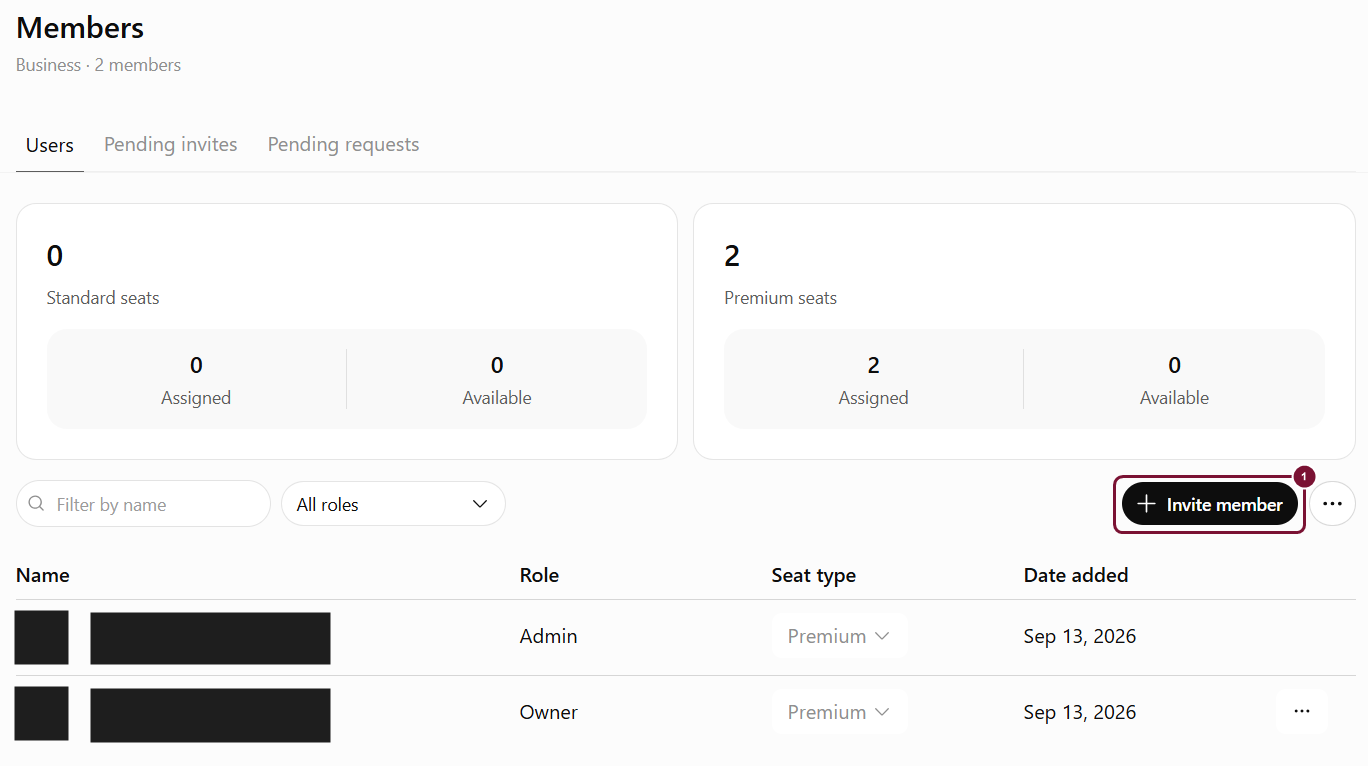
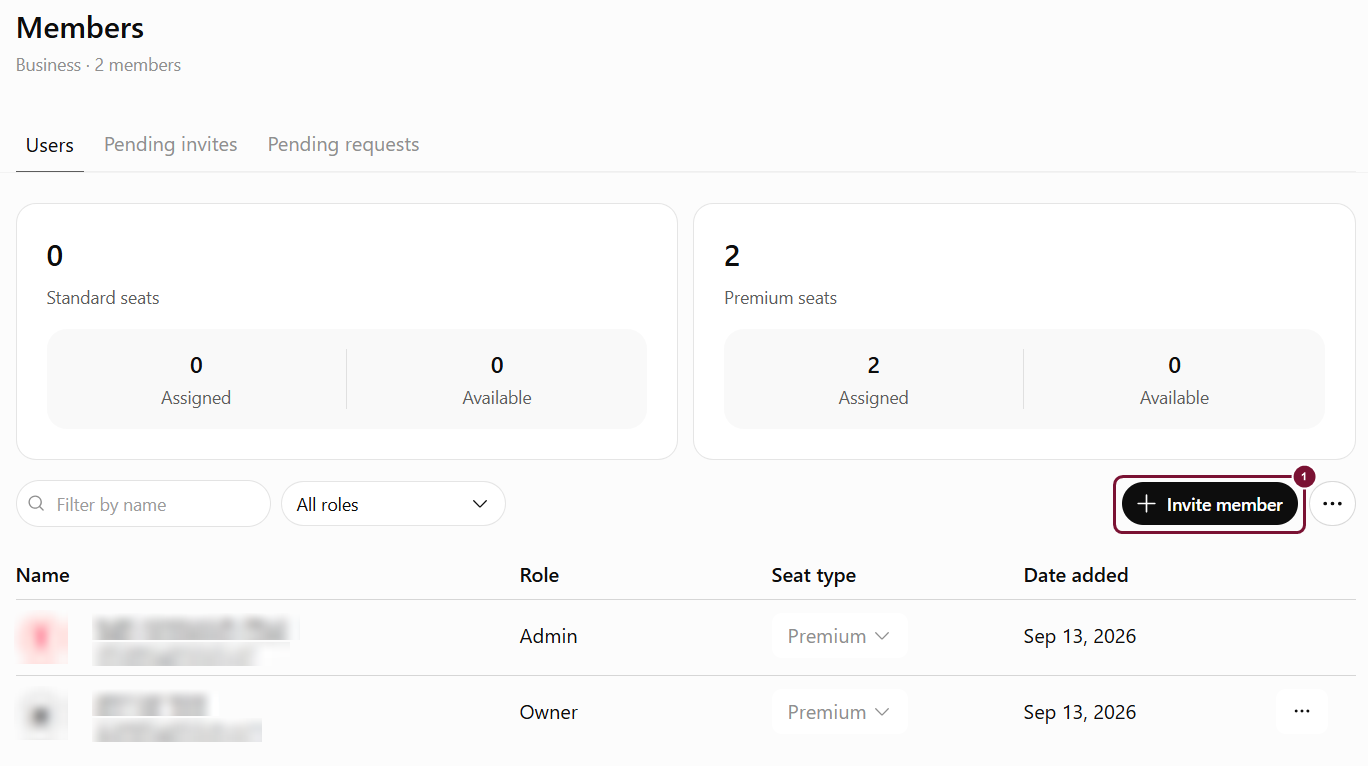
צילומים: טשטוש במקום השחרה, עם הערת פרטיות מתחת לצילום; הסרת הסתרה מטקסט שאינו רגיש

Changed region(s): [[0.0, 0.7807, 0.2456, 0.9909]]

diff --git a/guide-1.html b/guide-1.html
@@ -280,12 +280,12 @@ footer{font-size:.85rem;padding:30px 16px 20px;border-top:1px solid #dfe7e4}
 <summary>איך מורידים את קובץ מפת הדרכים ש-<bdi dir="ltr">ChatGPT</bdi> מפיק?</summary>
 <p>כשהקובץ מופיע בשיחה, לוחצים על כפתור ההגדלה בפינת התצוגה. במסך שנפתח לוחצים על כפתור ההורדה בפינה הימנית העליונה, והקובץ יורד כקובץ <bdi dir="ltr">HTML</bdi> לתיקיית ההורדות. אפשר לפתוח אותו בדפדפן ולשמור אותו בתיק המשרד.</p>
         <figure>
-          <div class="shot-frame"><img class="shot-real" src="img/cg1-12-roadmap-expand.png?v=20260915a" alt="קובץ מפת הדרכים בתוך השיחה, עם כפתור ההגדלה"></div>
+          <div class="shot-frame"><img class="shot-real" src="img/cg1-12-roadmap-expand.png?v=20260915b" alt="קובץ מפת הדרכים בתוך השיחה, עם כפתור ההגדלה"></div>
           <figcaption>הקובץ בתוך השיחה</figcaption>
         </figure>
         <ul class="shot-legend"><li><b>1 </b><span>כפתור ההגדלה: פותח את הקובץ בתצוגה מלאה.</span></li></ul>
         <figure>
-          <div class="shot-frame"><img class="shot-real" src="img/cg1-13-roadmap-download.png?v=20260915a" alt="מפת הדרכים בתצוגה מלאה, עם כפתור ההורדה"></div>
+          <div class="shot-frame"><img class="shot-real" src="img/cg1-13-roadmap-download.png?v=20260915b" alt="מפת הדרכים בתצוגה מלאה, עם כפתור ההורדה"></div>
           <figcaption>הקובץ בתצוגה מלאה</figcaption>
         </figure>
         <ul class="shot-legend"><li><b>1 </b><span>כפתור ההורדה: מוריד את הקובץ כקובץ <bdi dir="ltr">HTML</bdi> לתיקיית ההורדות.</span></li></ul>
@@ -396,7 +396,7 @@ Owner צריך להיות בעל המשרד, שותף מוסמך או חשבון
 
 Settings &gt; Data controls &gt; Export data
 
-(צילום מסך במדריך: לחצו על Settings בתפריט החשבון.)
+(צילום מסך במדריך: לחצו על Settings בתפריט החשבון. (שם המשתמש טושטש, לשמירה על פרטיות))
 
 סימון 1: Settings: פותח את חלון ההגדרות של החשבון.
 
@@ -490,7 +490,7 @@ OpenAI גם מזהירה שבמקרים נדירים, שיחות ארוכות א
 
 את ההנחיות האישיות הקבועות רואים תחת Personalization. הן נכללות בקובץ ה-Export, אבל כדאי גם להעתיק אותן לקובץ נפרד, כדי להדביק אותן מחדש ב-Business.
 
-(צילום מסך במדריך: לחצו על Personalization בתפריט החשבון.)
+(צילום מסך במדריך: לחצו על Personalization בתפריט החשבון. (שם המשתמש טושטש, לשמירה על פרטיות))
 
 סימון 1: Personalization: פותח את חלון ההתאמה האישית.
 
@@ -502,7 +502,7 @@ OpenAI גם מזהירה שבמקרים נדירים, שיחות ארוכות א
 
 קבצים שהעליתם לפרויקט אפשר להוריד אחד אחד מתוך רשימת המקורות (Sources) של הפרויקט. לפני המעבר, הורידו את הקבצים החשובים ושמרו אותם בתיקיית הגיבוי.
 
-(צילום מסך במדריך: פתיחת פרויקט חדש)
+(צילום מסך במדריך: פתיחת פרויקט חדש (שמות השיחות טושטשו, לשמירה על פרטיות))
 
 סימון 1: הסימן + ליד Projects: פותח פרויקט חדש.
 
@@ -632,7 +632,7 @@ Workspace settings &gt; Members
 
 בעמודה Role רואים את התפקיד של כל אחד מחברי הארגון, וכך בודקים מי מוגדר כ-Owner.
 
-(צילום מסך במדריך: Workspace settings &gt; Members (השמות וכתובות הדוא"ל הושחרו))
+(צילום מסך במדריך: Workspace settings &gt; Members (השמות וכתובות הדוא"ל טושטשו, לשמירה על פרטיות))
 
 סימון 1: עמודת Role: התפקיד של כל משתמש. Owner הוא בעל החשבון, Admin הוא מנהל.
 
@@ -686,7 +686,7 @@ Workspace settings &gt; Members &gt; Invite member
 
 הזינו כתובות דוא"ל מלאות. Owner בוחר לכל הזמנה תפקיד וסוג מושב, ואילו Admins וחברים מזמינים Member בסוג המושב שנקבע כברירת מחדל. בדקו את סוג המושב ושלחו את ההזמנות.
 
-(צילום מסך במדריך: Workspace settings &gt; Members)
+(צילום מסך במדריך: Workspace settings &gt; Members (השמות וכתובות הדוא"ל טושטשו, לשמירה על פרטיות))
 
 סימון 1: Invite member: פותח את חלון ההזמנה.
 
@@ -730,7 +730,7 @@ Workspace settings &gt; Members &gt; Invite member
 סימון 1: השם בפינה השמאלית התחתונה: הסביבה שבה אתם עובדים עכשיו, ומתחתיו סוג המנוי (Business).
 סימון 2: השורה העליונה עם החץ: פותחת את רשימת הסביבות, ומשם עוברים ביניהן.
 
-(צילום מסך במדריך: רשימת הסביבות (בחשבון שבצילום יש סביבה אחת בלבד, וכתובת הדוא"ל הושחרה))
+(צילום מסך במדריך: רשימת הסביבות (בחשבון שבצילום יש סביבה אחת בלבד, וכתובת הדוא"ל טושטשה, לשמירה על פרטיות))
 
 סימון 1: הסביבה הפעילה מסומנת בסימן ✓ בצד ימין.
 
@@ -1338,33 +1338,33 @@ Legal Mind · כלי עבודה מעשי · פירוט מלא בכל סעיף נ
         <p><code dir="ltr">Settings &gt; Data controls &gt; Export data</code></p>
         
         <figure>
-          <div class="shot-frame"><img class="shot-real" src="img/cg1-01-menu-settings.png?v=20260915a" alt="תפריט החשבון, השורה Settings"></div>
-          <figcaption>לחצו על <bdi dir="ltr">Settings</bdi> בתפריט החשבון.</figcaption>
+          <div class="shot-frame"><img class="shot-real" src="img/cg1-01-menu-settings.png?v=20260915b" alt="תפריט החשבון, השורה Settings"></div>
+          <figcaption>לחצו על <bdi dir="ltr">Settings</bdi> בתפריט החשבון. (שם המשתמש טושטש, לשמירה על פרטיות)</figcaption>
         </figure>
         <ul class="shot-legend"><li><b>1 </b><span><bdi dir="ltr">Settings</bdi>: פותח את חלון ההגדרות של החשבון.</span></li></ul>
         
         <figure>
-          <div class="shot-frame"><img class="shot-real" src="img/cg1-02-data-controls-export.png?v=20260915a" alt="Settings > Data controls, הכפתור Export"></div>
+          <div class="shot-frame"><img class="shot-real" src="img/cg1-02-data-controls-export.png?v=20260915b" alt="Settings > Data controls, הכפתור Export"></div>
           <figcaption><bdi dir="ltr">Settings &gt; Data controls</bdi></figcaption>
         </figure>
         <ul class="shot-legend"><li><b>1 </b><span>לשונית <bdi dir="ltr">Data controls</bdi>.</span></li><li><b>2 </b><span><bdi dir="ltr">Export</bdi>: לחיצה עליו מבקשת ייצוא של נתוני החשבון.</span></li></ul>
         <p>לחצו על <bdi dir="ltr">Export</bdi>, ובמסך האישור לחצו על <bdi dir="ltr">Confirm export</bdi> כדי לבקש ייצוא של נתוני החשבון.</p>
         
         <figure>
-          <div class="shot-frame"><img class="shot-real" src="img/cg1-03-confirm-export.png?v=20260915a" alt="חלון האישור Request data export"></div>
+          <div class="shot-frame"><img class="shot-real" src="img/cg1-03-confirm-export.png?v=20260915b" alt="חלון האישור Request data export"></div>
           <figcaption><bdi dir="ltr">Request data export</bdi></figcaption>
         </figure>
         <ul class="shot-legend"><li><b>1 </b><span>רשימת הפרטים: מה ייכלל בייצוא, לאן יישלח ולכמה זמן הקישור תקף.</span></li><li><b>2 </b><span><bdi dir="ltr">Confirm export</bdi>: שולח את הבקשה. הלחיצה לא מוחקת ולא משנה דבר בחשבון.</span></li></ul>
         
         <figure>
-          <div class="shot-frame"><img class="shot-real" src="img/cg1-04-export-requested.png?v=20260915a" alt="הודעה ירוקה: הבקשה התקבלה"></div>
+          <div class="shot-frame"><img class="shot-real" src="img/cg1-04-export-requested.png?v=20260915b" alt="הודעה ירוקה: הבקשה התקבלה"></div>
           <figcaption>הבקשה התקבלה</figcaption>
         </figure>
         <ul class="shot-legend"><li><b>1 </b><span>ההודעה הירוקה: הבקשה נקלטה, והפרטים יישלחו במייל. הקובץ עצמו עוד לא נשלח.</span></li></ul>
         <p>כשהייצוא מוכן מתקבלת הודעה בדוא"ל (או ב-<bdi dir="ltr">SMS</bdi> בחשבון שרשום רק עם מספר טלפון). ההודעה יכולה להגיע עד 7 ימים אחרי הבקשה. הקישור תקף ל-24 שעות מרגע קבלתו, ודורש שהמשתמש יהיה מחובר לאותו חשבון.</p>
         
         <figure>
-          <div class="shot-frame"><img class="shot-real" src="img/cg1-06-export-started-email.png?v=20260915a" alt="מייל: הכנת הייצוא התחילה"></div>
+          <div class="shot-frame"><img class="shot-real" src="img/cg1-06-export-started-email.png?v=20260915b" alt="מייל: הכנת הייצוא התחילה"></div>
           <figcaption>המייל הראשון מ-<bdi dir="ltr">OpenAI</bdi></figcaption>
         </figure>
         <ul class="shot-legend"><li><b>1 </b><span>כותרת המייל: הכנת הייצוא התחילה.</span></li><li><b>2 </b><span>ההכנה עשויה להימשך כמה ימים. מייל נוסף יישלח כשהקובץ יהיה מוכן להורדה.</span></li></ul>
@@ -1385,7 +1385,7 @@ Legal Mind · כלי עבודה מעשי · פירוט מלא בכל סעיף נ
         <p>כשהייצוא מוכן מגיע מייל שני מ-<bdi dir="ltr">OpenAI</bdi>. לחצו בו על <bdi dir="ltr">Download data export</bdi>, כשאתם מחוברים ל-<bdi dir="ltr">ChatGPT</bdi> באותו חשבון שביקש את הייצוא.</p>
         
         <figure>
-          <div class="shot-frame"><img class="shot-real" src="img/cg1-08-export-ready-email.png?v=20260915a" alt="מייל: קובץ הייצוא מוכן, עם הכפתור Download data export"></div>
+          <div class="shot-frame"><img class="shot-real" src="img/cg1-08-export-ready-email.png?v=20260915b" alt="מייל: קובץ הייצוא מוכן, עם הכפתור Download data export"></div>
           <figcaption>המייל השני מ-<bdi dir="ltr">OpenAI</bdi></figcaption>
         </figure>
         <ul class="shot-legend"><li><b>1 </b><span>כותרת המייל: קובץ הייצוא מוכן.</span></li><li><b>2 </b><span><bdi dir="ltr">Download data export</bdi>: מוריד את קובץ הגיבוי. הקישור תקף ל-24 שעות.</span></li></ul>
@@ -1421,13 +1421,13 @@ Legal Mind · כלי עבודה מעשי · פירוט מלא בכל סעיף נ
         <p>את ההנחיות האישיות הקבועות רואים תחת <bdi dir="ltr">Personalization</bdi>. הן נכללות בקובץ ה-<bdi dir="ltr">Export</bdi>, אבל כדאי גם להעתיק אותן לקובץ נפרד, כדי להדביק אותן מחדש ב-<bdi dir="ltr">Business</bdi>.</p>
         
         <figure>
-          <div class="shot-frame"><img class="shot-real" src="img/cg1-05-menu-personalization.png?v=20260915a" alt="תפריט החשבון, השורה Personalization"></div>
-          <figcaption>לחצו על <bdi dir="ltr">Personalization</bdi> בתפריט החשבון.</figcaption>
+          <div class="shot-frame"><img class="shot-real" src="img/cg1-05-menu-personalization.png?v=20260915b" alt="תפריט החשבון, השורה Personalization"></div>
+          <figcaption>לחצו על <bdi dir="ltr">Personalization</bdi> בתפריט החשבון. (שם המשתמש טושטש, לשמירה על פרטיות)</figcaption>
         </figure>
         <ul class="shot-legend"><li><b>1 </b><span><bdi dir="ltr">Personalization</bdi>: פותח את חלון ההתאמה האישית.</span></li></ul>
         
         <figure>
-          <div class="shot-frame"><img class="shot-real" src="img/cg1-07-custom-instructions.png?v=20260915a" alt="תיבת Custom instructions" data-full-src="img/cg1-07-full-personalization.png?v=20260915a"></div>
+          <div class="shot-frame"><img class="shot-real" src="img/cg1-07-custom-instructions.png?v=20260915b" alt="תיבת Custom instructions" data-full-src="img/cg1-07-full-personalization.png?v=20260915b"></div>
           <figcaption><bdi dir="ltr">Personalization &gt; Custom instructions</bdi></figcaption>
         </figure>
         <ul class="shot-legend"><li><b>1 </b><span><bdi dir="ltr">Custom instructions</bdi>: ההנחיות הקבועות שלכם. מעתיקים את כל הטקסט ושומרים בקובץ נפרד.</span></li></ul>
@@ -1435,25 +1435,25 @@ Legal Mind · כלי עבודה מעשי · פירוט מלא בכל סעיף נ
         <p>קבצים שהעליתם לפרויקט אפשר להוריד אחד אחד מתוך רשימת המקורות <bdi dir="ltr">(Sources)</bdi> של הפרויקט. לפני המעבר, הורידו את הקבצים החשובים ושמרו אותם בתיקיית הגיבוי.</p>
         
         <figure>
-          <div class="shot-frame"><img class="shot-real" src="img/cg1-08-projects-plus.png?v=20260915a" alt="הסרגל הצדדי, הסימן + ליד Projects"></div>
-          <figcaption>פתיחת פרויקט חדש</figcaption>
+          <div class="shot-frame"><img class="shot-real" src="img/cg1-08-projects-plus.png?v=20260915b" alt="הסרגל הצדדי, הסימן + ליד Projects"></div>
+          <figcaption>פתיחת פרויקט חדש (שמות השיחות טושטשו, לשמירה על פרטיות)</figcaption>
         </figure>
         <ul class="shot-legend"><li><b>1 </b><span>הסימן <bdi dir="ltr">+</bdi> ליד <bdi dir="ltr">Projects</bdi>: פותח פרויקט חדש.</span></li></ul>
         
         <figure>
-          <div class="shot-frame"><img class="shot-real" src="img/cg1-09-sources-add.png?v=20260915a" alt="פרויקט, הלשונית Sources והכפתור Add sources"></div>
+          <div class="shot-frame"><img class="shot-real" src="img/cg1-09-sources-add.png?v=20260915b" alt="פרויקט, הלשונית Sources והכפתור Add sources"></div>
           <figcaption><bdi dir="ltr">Project &gt; Sources</bdi></figcaption>
         </figure>
         <ul class="shot-legend"><li><b>1 </b><span>לשונית <bdi dir="ltr">Sources</bdi> בתוך הפרויקט.</span></li><li><b>2 </b><span><bdi dir="ltr">Add sources</bdi>: הוספת קבצים לפרויקט.</span></li></ul>
         
         <figure>
-          <div class="shot-frame"><img class="shot-real" src="img/cg1-10-upload.png?v=20260915a" alt="חלון Add sources, האפשרות Upload"></div>
+          <div class="shot-frame"><img class="shot-real" src="img/cg1-10-upload.png?v=20260915b" alt="חלון Add sources, האפשרות Upload"></div>
           <figcaption><bdi dir="ltr">Add sources</bdi></figcaption>
         </figure>
         <ul class="shot-legend"><li><b>1 </b><span><bdi dir="ltr">Upload</bdi>: בחירת קובץ מהמחשב והעלאתו לפרויקט.</span></li><li><b>2 </b><span>אזור הגרירה: אפשר גם לגרור קובץ ישירות לכאן.</span></li></ul>
         
         <figure>
-          <div class="shot-frame"><img class="shot-real" src="img/cg1-11-download.png?v=20260915a" alt="קובץ ברשימת Sources, תפריט עם Download"></div>
+          <div class="shot-frame"><img class="shot-real" src="img/cg1-11-download.png?v=20260915b" alt="קובץ ברשימת Sources, תפריט עם Download"></div>
           <figcaption>הורדת קובץ מתוך הפרויקט</figcaption>
         </figure>
         <ul class="shot-legend"><li><b>1 </b><span>שלוש הנקודות ליד שם הקובץ: פותחות את תפריט הקובץ.</span></li><li><b>2 </b><span><bdi dir="ltr">Download</bdi>: הקובץ יורד מיד לתיקיית ההורדות, בלי חלון נוסף.</span></li></ul>

diff --git a/guide-2.html b/guide-2.html
@@ -279,15 +279,15 @@ footer{font-size:.85rem;padding:30px 16px 20px;border-top:1px solid #dfe7e4}
         <p><code dir="ltr">Workspace settings &gt; Members</code></p>
         
         <figure>
-          <div class="shot-frame"><img class="shot-real" src="img/cg3-02-workspace-settings-menu.png?v=20260915a" alt="תפריט החשבון, השורה Workspace settings"></div>
+          <div class="shot-frame"><img class="shot-real" src="img/cg3-02-workspace-settings-menu.png?v=20260915b" alt="תפריט החשבון, השורה Workspace settings"></div>
           <figcaption>לחצו על השם שלכם בפינה השמאלית התחתונה, ובתפריט על <bdi dir="ltr">Workspace settings</bdi>.</figcaption>
         </figure>
         <ul class="shot-legend"><li><b>1 </b><span><bdi dir="ltr">Workspace settings</bdi>: פותח את הגדרות הארגון. הסרגל שבצד מתחלף לסרגל הניהול של הארגון, ושם בוחרים <bdi dir="ltr">Members</bdi>.</span></li></ul>
         <p>בעמודה <bdi dir="ltr">Role</bdi> רואים את התפקיד של כל אחד מחברי הארגון, וכך בודקים מי מוגדר כ-<bdi dir="ltr">Owner</bdi>.</p>
         
         <figure>
-          <div class="shot-frame"><img class="shot-real" src="img/cg2-01-members-role.png?v=20260915a" alt="Workspace settings > Members, עמודת Role"></div>
-          <figcaption><bdi dir="ltr">Workspace settings &gt; Members</bdi> (השמות וכתובות הדוא"ל הושחרו)</figcaption>
+          <div class="shot-frame"><img class="shot-real" src="img/cg2-01-members-role.png?v=20260915b" alt="Workspace settings > Members, עמודת Role"></div>
+          <figcaption><bdi dir="ltr">Workspace settings &gt; Members</bdi> (השמות וכתובות הדוא"ל טושטשו, לשמירה על פרטיות)</figcaption>
         </figure>
         <ul class="shot-legend"><li><b>1 </b><span>עמודת <bdi dir="ltr">Role</bdi>: התפקיד של כל משתמש. <bdi dir="ltr">Owner</bdi> הוא בעל החשבון, <bdi dir="ltr">Admin</bdi> הוא מנהל.</span></li></ul>
         <p>בארגון אחד יכולים להיות כמה <bdi dir="ltr">Owners</bdi>.</p>
@@ -343,13 +343,13 @@ footer{font-size:.85rem;padding:30px 16px 20px;border-top:1px solid #dfe7e4}
         <p>הזינו כתובות דוא"ל מלאות. <bdi dir="ltr">Owner</bdi> בוחר לכל הזמנה תפקיד וסוג מושב, ואילו <bdi dir="ltr">Admins</bdi> וחברים מזמינים <bdi dir="ltr">Member</bdi> בסוג המושב שנקבע כברירת מחדל. בדקו את סוג המושב ושלחו את ההזמנות.</p>
         
         <figure>
-          <div class="shot-frame"><img class="shot-real" src="img/cg2-02-members-invite-button.png?v=20260915a" alt="Members, הכפתור Invite member"></div>
-          <figcaption><bdi dir="ltr">Workspace settings &gt; Members</bdi></figcaption>
+          <div class="shot-frame"><img class="shot-real" src="img/cg2-02-members-invite-button.png?v=20260915b" alt="Members, הכפתור Invite member"></div>
+          <figcaption><bdi dir="ltr">Workspace settings &gt; Members</bdi> (השמות וכתובות הדוא"ל טושטשו, לשמירה על פרטיות)</figcaption>
         </figure>
         <ul class="shot-legend"><li><b>1 </b><span><bdi dir="ltr">Invite member</bdi>: פותח את חלון ההזמנה.</span></li></ul>
         
         <figure>
-          <div class="shot-frame"><img class="shot-real" src="img/cg2-03-invite-dialog-admin.png?v=20260915a" alt="חלון ההזמנה Invite members"></div>
+          <div class="shot-frame"><img class="shot-real" src="img/cg2-03-invite-dialog-admin.png?v=20260915b" alt="חלון ההזמנה Invite members"></div>
           <figcaption>חלון ההזמנה, כפי שהוא נפתח ל-<bdi dir="ltr">Admin</bdi></figcaption>
         </figure>
         <ul class="shot-legend"><li><b>1 </b><span><bdi dir="ltr">Email</bdi>: כתובת הדוא"ל המלאה של המוזמן, בדיוק הכתובת שכבר מחוברת לחשבון שלו.</span></li><li><b>2 </b><span><bdi dir="ltr">Send invites</bdi>: שולח את ההזמנה. לוחצים רק אחרי שבדקתם את הכתובת.</span></li></ul>
@@ -386,14 +386,14 @@ footer{font-size:.85rem;padding:30px 16px 20px;border-top:1px solid #dfe7e4}
         <p>לפני פתיחת מסמך של לקוח, בדקו שאתם בסביבת <bdi dir="ltr">Business</bdi> ולא בסביבת <bdi dir="ltr">Personal</bdi>.</p>
         
         <figure>
-          <div class="shot-frame"><img class="shot-real" src="img/cg2-04-profile-menu-workspace.png?v=20260915a" alt="תפריט הפרופיל: שם הסביבה והשורה שפותחת את רשימת הסביבות"></div>
+          <div class="shot-frame"><img class="shot-real" src="img/cg2-04-profile-menu-workspace.png?v=20260915b" alt="תפריט הפרופיל: שם הסביבה והשורה שפותחת את רשימת הסביבות"></div>
           <figcaption>תפריט הפרופיל</figcaption>
         </figure>
         <ul class="shot-legend"><li><b>1 </b><span>השם בפינה השמאלית התחתונה: הסביבה שבה אתם עובדים עכשיו, ומתחתיו סוג המנוי <bdi dir="ltr">(Business)</bdi>.</span></li><li><b>2 </b><span>השורה העליונה עם החץ: פותחת את רשימת הסביבות, ומשם עוברים ביניהן.</span></li></ul>
         
         <figure>
-          <div class="shot-frame"><img class="shot-real" src="img/cg2-05-workspace-list.png?v=20260915a" alt="רשימת הסביבות, הסביבה הפעילה מסומנת"></div>
-          <figcaption>רשימת הסביבות (בחשבון שבצילום יש סביבה אחת בלבד, וכתובת הדוא"ל הושחרה)</figcaption>
+          <div class="shot-frame"><img class="shot-real" src="img/cg2-05-workspace-list.png?v=20260915b" alt="רשימת הסביבות, הסביבה הפעילה מסומנת"></div>
+          <figcaption>רשימת הסביבות (בחשבון שבצילום יש סביבה אחת בלבד, וכתובת הדוא"ל טושטשה, לשמירה על פרטיות)</figcaption>
         </figure>
         <ul class="shot-legend"><li><b>1 </b><span>הסביבה הפעילה מסומנת בסימן ✓ בצד ימין.</span></li></ul>
         <p>בצעו שיחת ניסיון ללא מידע של לקוח, עברו ל-<bdi dir="ltr">Personal</bdi> וחזרו ל-<bdi dir="ltr">Business</bdi>. כך המשתמש לומד שהסביבות נפרדות.</p>

diff --git a/guide-3.html b/guide-3.html
@@ -274,7 +274,7 @@ footer{font-size:.85rem;padding:30px 16px 20px;border-top:1px solid #dfe7e4}
         <p>בדקו את הקבלה על הרכישה: היא מראה איזו פלטפורמה חייבה אתכם. מנוי שנרכש באתר מופיע ב-<code dir="ltr">Settings &gt; Billing</code>, ובתחתית המסך נמצאת השורה <bdi dir="ltr">Cancel plan</bdi>.</p>
         
         <figure>
-          <div class="shot-frame"><img class="shot-real" src="img/cg3-01-billing-cancel-plan.png?v=20260915a" alt="Settings > Billing, המנוי והשורה Cancel plan"></div>
+          <div class="shot-frame"><img class="shot-real" src="img/cg3-01-billing-cancel-plan.png?v=20260915b" alt="Settings > Billing, המנוי והשורה Cancel plan"></div>
           <figcaption><bdi dir="ltr">Settings &gt; Billing</bdi> (החלק האמצעי של המסך הושמט)</figcaption>
         </figure>
         <ul class="shot-legend"><li><b>1 </b><span>לשונית <bdi dir="ltr">Billing</bdi>.</span></li><li><b>2 </b><span><bdi dir="ltr">ChatGPT Plus</bdi>: המנוי הפעיל ומועד החידוש שלו.</span></li><li><b>3 </b><span><bdi dir="ltr">Cancel plan</bdi>: ביטול המנוי. לא לוחצים בשלב הזה.</span></li></ul>
@@ -424,7 +424,7 @@ footer{font-size:.85rem;padding:30px 16px 20px;border-top:1px solid #dfe7e4}
         <p><code dir="ltr">Personalization &gt; Custom instructions</code></p>
         
         <figure>
-          <div class="shot-frame"><img class="shot-real" src="img/cg3-05-custom-instructions-business.png?v=20260915a" alt="Settings > Personalization בסביבת Business, התיבה Custom instructions"></div>
+          <div class="shot-frame"><img class="shot-real" src="img/cg3-05-custom-instructions-business.png?v=20260915b" alt="Settings > Personalization בסביבת Business, התיבה Custom instructions"></div>
           <figcaption><bdi dir="ltr">Settings &gt; Personalization</bdi> בסביבת <bdi dir="ltr">Business</bdi></figcaption>
         </figure>
         <ul class="shot-legend"><li><b>1 </b><span>לשונית <bdi dir="ltr">Personalization</bdi>.</span></li><li><b>2 </b><span><bdi dir="ltr">Custom instructions</bdi>: כאן מדביקים את ההנחיות ששמרתם. בצילום התיבה עדיין ריקה.</span></li></ul>
@@ -464,19 +464,19 @@ footer{font-size:.85rem;padding:30px 16px 20px;border-top:1px solid #dfe7e4}
         <p>לפי <bdi dir="ltr">OpenAI</bdi>, רק <bdi dir="ltr">Owner</bdi> יכול לראות חשבוניות ולנהל את החיוב. <bdi dir="ltr">Admin</bdi> רואה את פרטי המנוי במסך החיוב, אבל לא את החשבוניות.</p>
         
         <figure>
-          <div class="shot-frame"><img class="shot-real" src="img/cg3-02-workspace-settings-menu.png?v=20260915a" alt="תפריט החשבון, השורה Workspace settings"></div>
+          <div class="shot-frame"><img class="shot-real" src="img/cg3-02-workspace-settings-menu.png?v=20260915b" alt="תפריט החשבון, השורה Workspace settings"></div>
           <figcaption>לחצו על השם שלכם בפינה השמאלית התחתונה, ובתפריט על <bdi dir="ltr">Workspace settings</bdi>.</figcaption>
         </figure>
         <ul class="shot-legend"><li><b>1 </b><span><bdi dir="ltr">Workspace settings</bdi>: פותח את הגדרות הארגון. הסרגל שבצד מתחלף לסרגל הניהול של הארגון.</span></li></ul>
         
         <figure>
-          <div class="shot-frame"><img class="shot-real" src="img/cg3-03-billing-sidebar.png?v=20260915a" alt="סרגל הגדרות הארגון, הלשונית Billing"></div>
+          <div class="shot-frame"><img class="shot-real" src="img/cg3-03-billing-sidebar.png?v=20260915b" alt="סרגל הגדרות הארגון, הלשונית Billing"></div>
           <figcaption>בסרגל שבצד לחצו על <bdi dir="ltr">Billing</bdi>.</figcaption>
         </figure>
         <ul class="shot-legend"><li><b>1 </b><span><bdi dir="ltr">Billing</bdi>: מסך החיוב של הארגון.</span></li></ul>
         
         <figure>
-          <div class="shot-frame"><img class="shot-real" src="img/cg3-04-billing-business.png?v=20260915a" alt="Workspace settings > Billing: המנוי, המושבים וסוג המושב שנקבע כברירת מחדל"></div>
+          <div class="shot-frame"><img class="shot-real" src="img/cg3-04-billing-business.png?v=20260915b" alt="Workspace settings > Billing: המנוי, המושבים וסוג המושב שנקבע כברירת מחדל"></div>
           <figcaption><bdi dir="ltr">Workspace settings &gt; Billing</bdi> (שני צילומים מחוברים של אותו מסך)</figcaption>
         </figure>
         <ul class="shot-legend"><li><b>1 </b><span><bdi dir="ltr">Business Plan</bdi>: סוג המנוי, אופן החיוב (כאן חודשי) ותקופת החיוב הנוכחית.</span></li><li><b>2 </b><span><bdi dir="ltr">Premium seats</bdi>: מספר המושבים שמשלמים עליהם והמחיר. כאן בודקים שאין מושבים מיותרים.</span></li><li><b>3 </b><span><bdi dir="ltr">Default seat type</bdi>: סוג המושב שמקבל מי שמוזמן על ידי <bdi dir="ltr">Admin</bdi> או על ידי חבר רגיל.</span></li></ul>

diff --git a/index.html b/index.html
@@ -323,7 +323,7 @@ figure > figcaption {
   <div class="hero-mesh" aria-hidden="true"></div>
   <div class="hero-inner">
     <span class="hero-eyebrow"><span class="dot"></span>מרכז המדריכים</span>
-    <h1>מדריך מפורט למעבר בטוח<br>למנוי <bdi dir="ltr">Business</bdi> של <bdi dir="ltr">ChatGPT</bdi><span class="gpt-mark" aria-hidden="true"><span class="gpt-halo"><img src="img/chatgpt-blossom.svg?v=20260915a" alt=""></span></span></h1>
+    <h1>מדריך מפורט למעבר בטוח<br>למנוי <bdi dir="ltr">Business</bdi> של <bdi dir="ltr">ChatGPT</bdi><span class="gpt-mark" aria-hidden="true"><span class="gpt-halo"><img src="img/chatgpt-blossom.svg?v=20260915b" alt=""></span></span></h1>
     <p>ליווי מלא לפני המעבר, במהלכו ואחריו: מהכנה וגיבוי, דרך מיזוג החשבון והמידע, ועד בדיקות ושחזור ההנחיות האישיות.</p>
   </div>
 </div>
